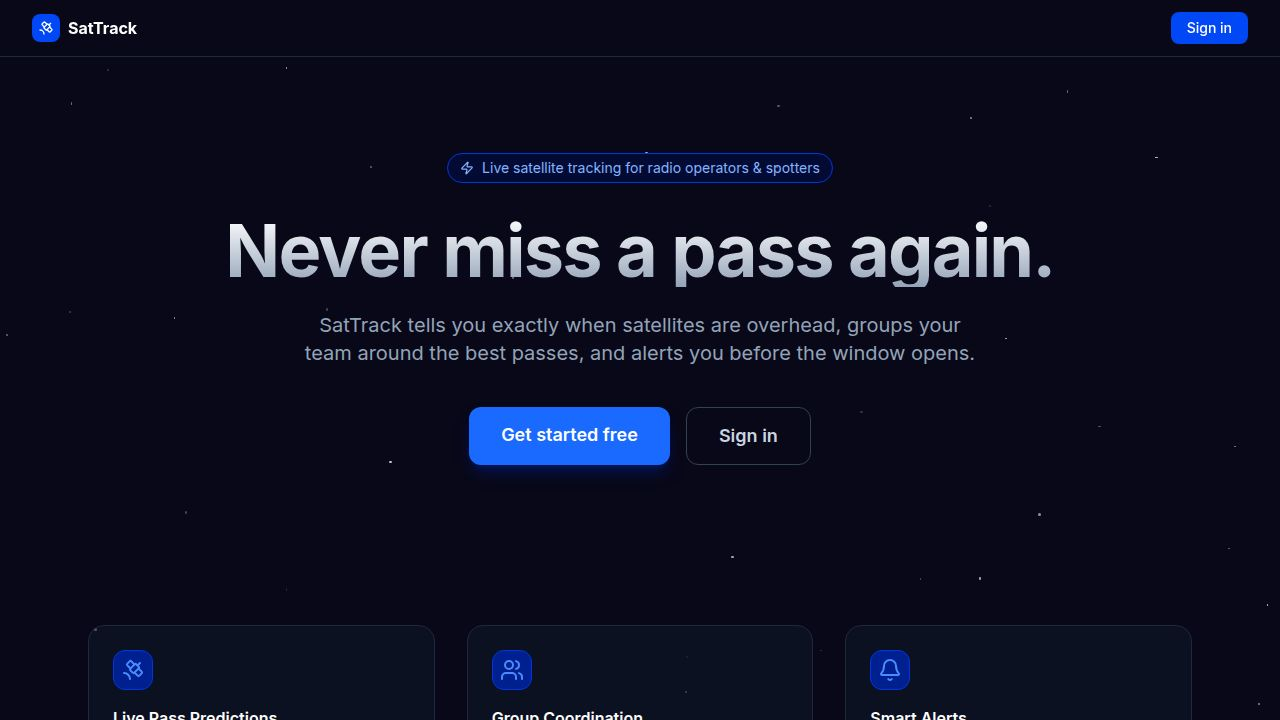
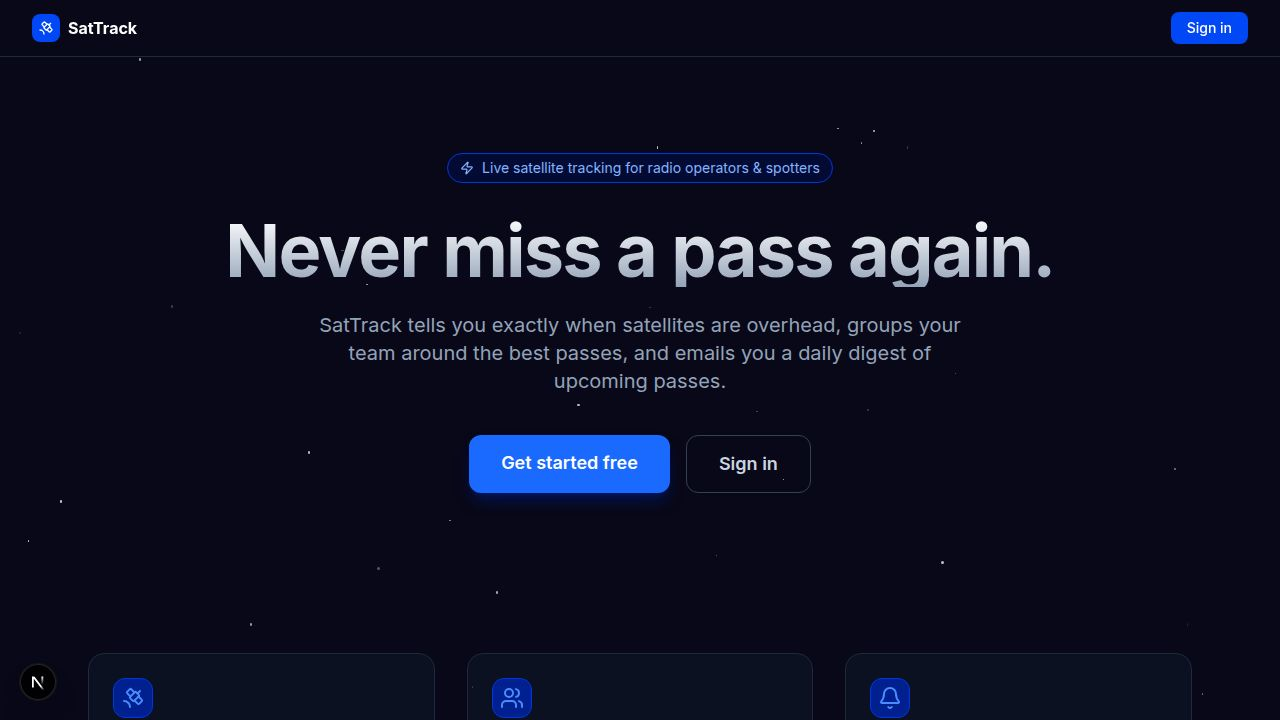
Refresh landing copy and route CTAs to sign-up vs sign-in
Task: (1) review landing feature cards/copy for accuracy and update;
(2) make "Get started free" / "Create free account" open the sign-up UI
while "Sign in" opens the sign-in UI.

Changes:
- app/page.tsx: "Get started free" and "Create free account" now link to
  /auth/login?mode=signup; "Sign in" stays /auth/login. Updated hero
  subtext to the daily-digest model. Card updates: "Smart Alerts" ->
  "Daily Pass Digest" (app sends a once-daily 1pm digest, not per-pass
  "before pass starts"); removed the non-existent "Doppler shift" claim
  from "Radio Operator Focus"; replaced implementation-detail "Cached &
  Fast" card with user-facing "Sky Conditions at a Glance" (real
  cloud-cover feature); minor accuracy tweaks to remaining cards.
- app/auth/login/page.tsx: reads initial mode from ?mode=signup via
  useSearchParams, wrapped in Suspense (Next 15 requirement). Defaults
  to login otherwise.

Verified: typecheck passes; screenshots confirm sign-up vs sign-in modes.

Note: public/opengraph.jpg shows as modified in the working tree but was
not touched by this task (pre-existing change, left as-is).

diff --git a/artifacts/satellite-tracker/app/page.tsx b/artifacts/satellite-tracker/app/page.tsx
@@ -42,12 +42,12 @@ export default async function HomePage() {
         </h1>
 
         <p className="text-lg md:text-xl text-slate-400 max-w-2xl mx-auto mb-10 leading-relaxed">
-          SatTrack tells you exactly when satellites are overhead, groups your team around the best passes, and alerts you before the window opens.
+          SatTrack tells you exactly when satellites are overhead, groups your team around the best passes, and emails you a daily digest of upcoming passes.
         </p>
 
         <div className="flex flex-col sm:flex-row gap-4 justify-center">
           <Link
-            href="/auth/login"
+            href="/auth/login?mode=signup"
             className="px-8 py-3.5 rounded-xl bg-space-500 hover:bg-space-600 text-white font-semibold transition-colors text-lg shadow-lg shadow-space-900/50"
           >
             Get started free
@@ -68,32 +68,32 @@ export default async function HomePage() {
             {
               icon: <Satellite className="w-6 h-6" />,
               title: "Live Pass Predictions",
-              desc: "Real-time pass predictions powered by N2YO for any satellite from your group's observing site. See azimuth, elevation, and visibility windows.",
+              desc: "Pass predictions powered by N2YO for any satellite from your observing site — azimuth, elevation, and timing — plus a live map of the satellite's current position.",
             },
             {
               icon: <Users className="w-6 h-6" />,
               title: "Group Coordination",
-              desc: "Spin up a group with one shared observing location. Everyone tracks the same satellites and sees the same pass window — no more missed contacts.",
+              desc: "Create or join a group around one shared observing location. Discover nearby groups on a map and rally your team around the same pass windows.",
             },
             {
               icon: <Bell className="w-6 h-6" />,
-              title: "Smart Alerts",
-              desc: "Get email notifications before a pass starts. Alerts are batched and de-duplicated so you never get spammed when a satellite is popular.",
+              title: "Daily Pass Digest",
+              desc: "One email a day at 1pm your time listing the upcoming passes that matter. Choose the days, look-ahead window, minimum elevation, and pass type — one tidy digest, never spam.",
             },
             {
               icon: <MapPin className="w-6 h-6" />,
               title: "Shared Observing Site",
-              desc: "Each group has one observing location set by an admin, so every member coordinates around the exact same horizon and pass times.",
+              desc: "Add observing sites by address search or GPS and mark a default. Each group has one location, so every member coordinates around the exact same horizon.",
             },
             {
               icon: <Radio className="w-6 h-6" />,
               title: "Radio Operator Focus",
-              desc: "Built for amateur radio operators. Minimum elevation thresholds, Doppler shift awareness, and contact window calculations.",
+              desc: "Built for amateur radio operators. Filter by minimum elevation and radio vs visual passes, and see each pass's peak elevation and duration at a glance.",
             },
             {
               icon: <Zap className="w-6 h-6" />,
-              title: "Cached & Fast",
-              desc: "Pass data is intelligently cached to stay within API limits. Results are shared across users at the same location for speed.",
+              title: "Sky Conditions at a Glance",
+              desc: "Every pass shows a cloud-cover hint — clear, partly cloudy, or overcast — so you know whether you'll actually see it before you head outside.",
             },
           ].map((f, i) => (
             <div
@@ -118,7 +118,7 @@ export default async function HomePage() {
             Create your account in seconds. No credit card required.
           </p>
           <Link
-            href="/auth/login"
+            href="/auth/login?mode=signup"
             className="inline-block px-10 py-4 rounded-xl bg-space-500 hover:bg-space-600 text-white font-semibold text-lg transition-colors"
           >
             Create free account

diff --git a/artifacts/satellite-tracker/app/auth/login/page.tsx b/artifacts/satellite-tracker/app/auth/login/page.tsx
@@ -1,12 +1,15 @@
 "use client";
 
-import { useState } from "react";
+import { Suspense, useState } from "react";
+import { useSearchParams } from "next/navigation";
 import { Satellite, Mail, Lock, AlertCircle } from "lucide-react";
 
-export default function LoginPage() {
+function LoginForm() {
+  const searchParams = useSearchParams();
+  const initialMode = searchParams.get("mode") === "signup" ? "signup" : "login";
   const [email, setEmail] = useState("");
   const [password, setPassword] = useState("");
-  const [mode, setMode] = useState<"login" | "signup">("login");
+  const [mode, setMode] = useState<"login" | "signup">(initialMode);
   const [error, setError] = useState<string | null>(null);
   const [loading, setLoading] = useState(false);
 
@@ -149,5 +152,13 @@ export default function LoginPage() {
         </p>
       </div>
     </div>
+  );
+}
+
+export default function LoginPage() {
+  return (
+    <Suspense fallback={null}>
+      <LoginForm />
+    </Suspense>
   );
 }